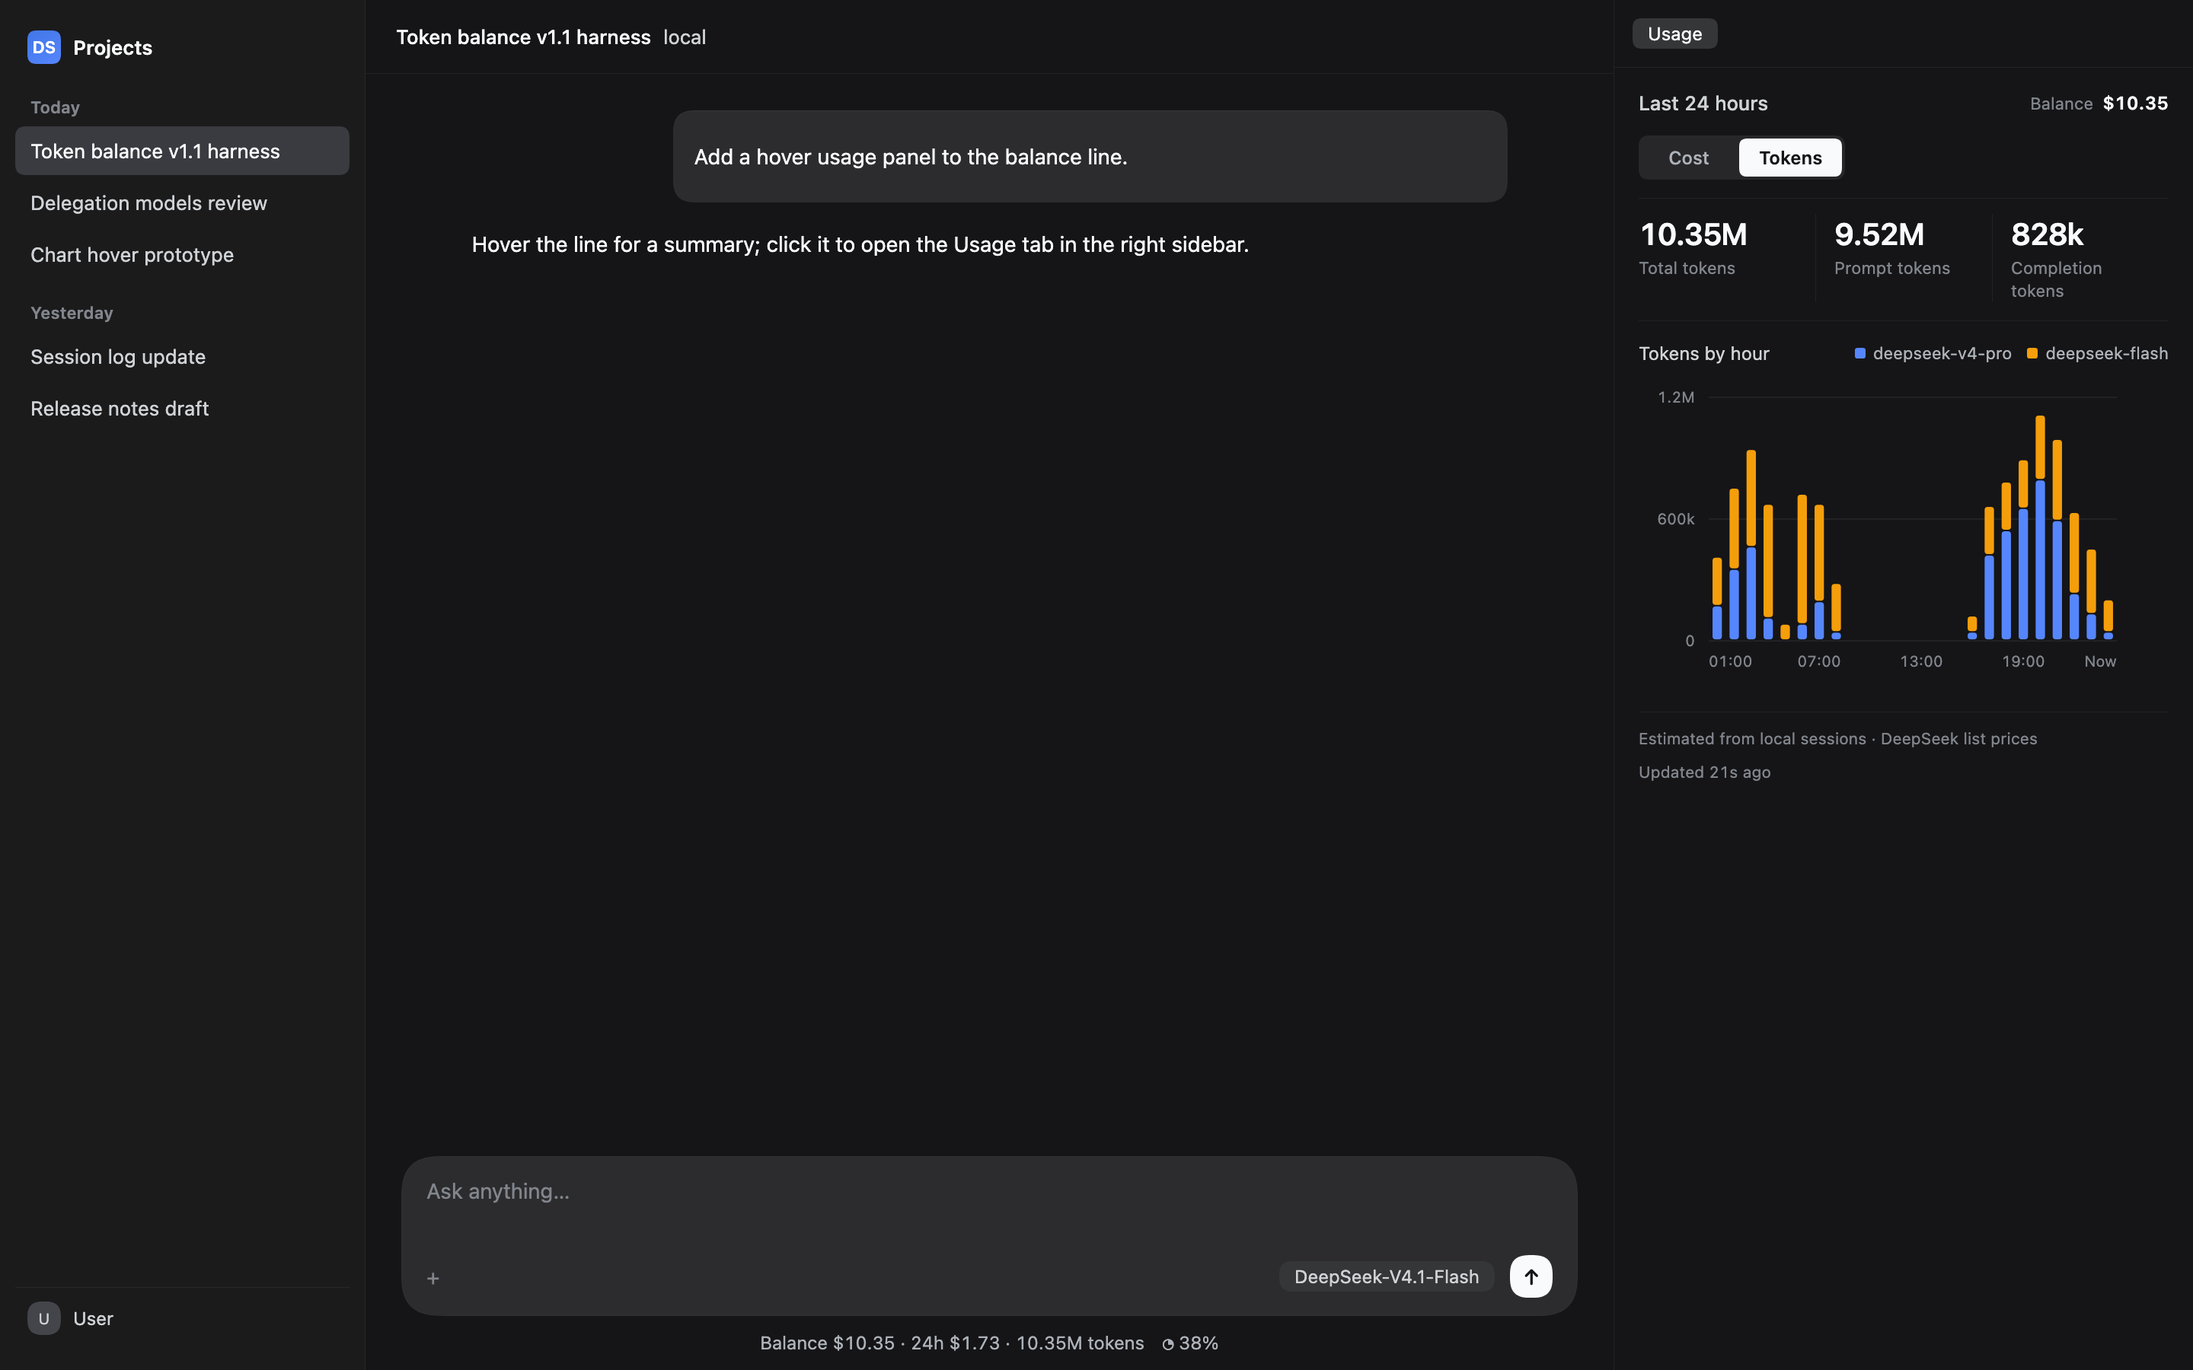
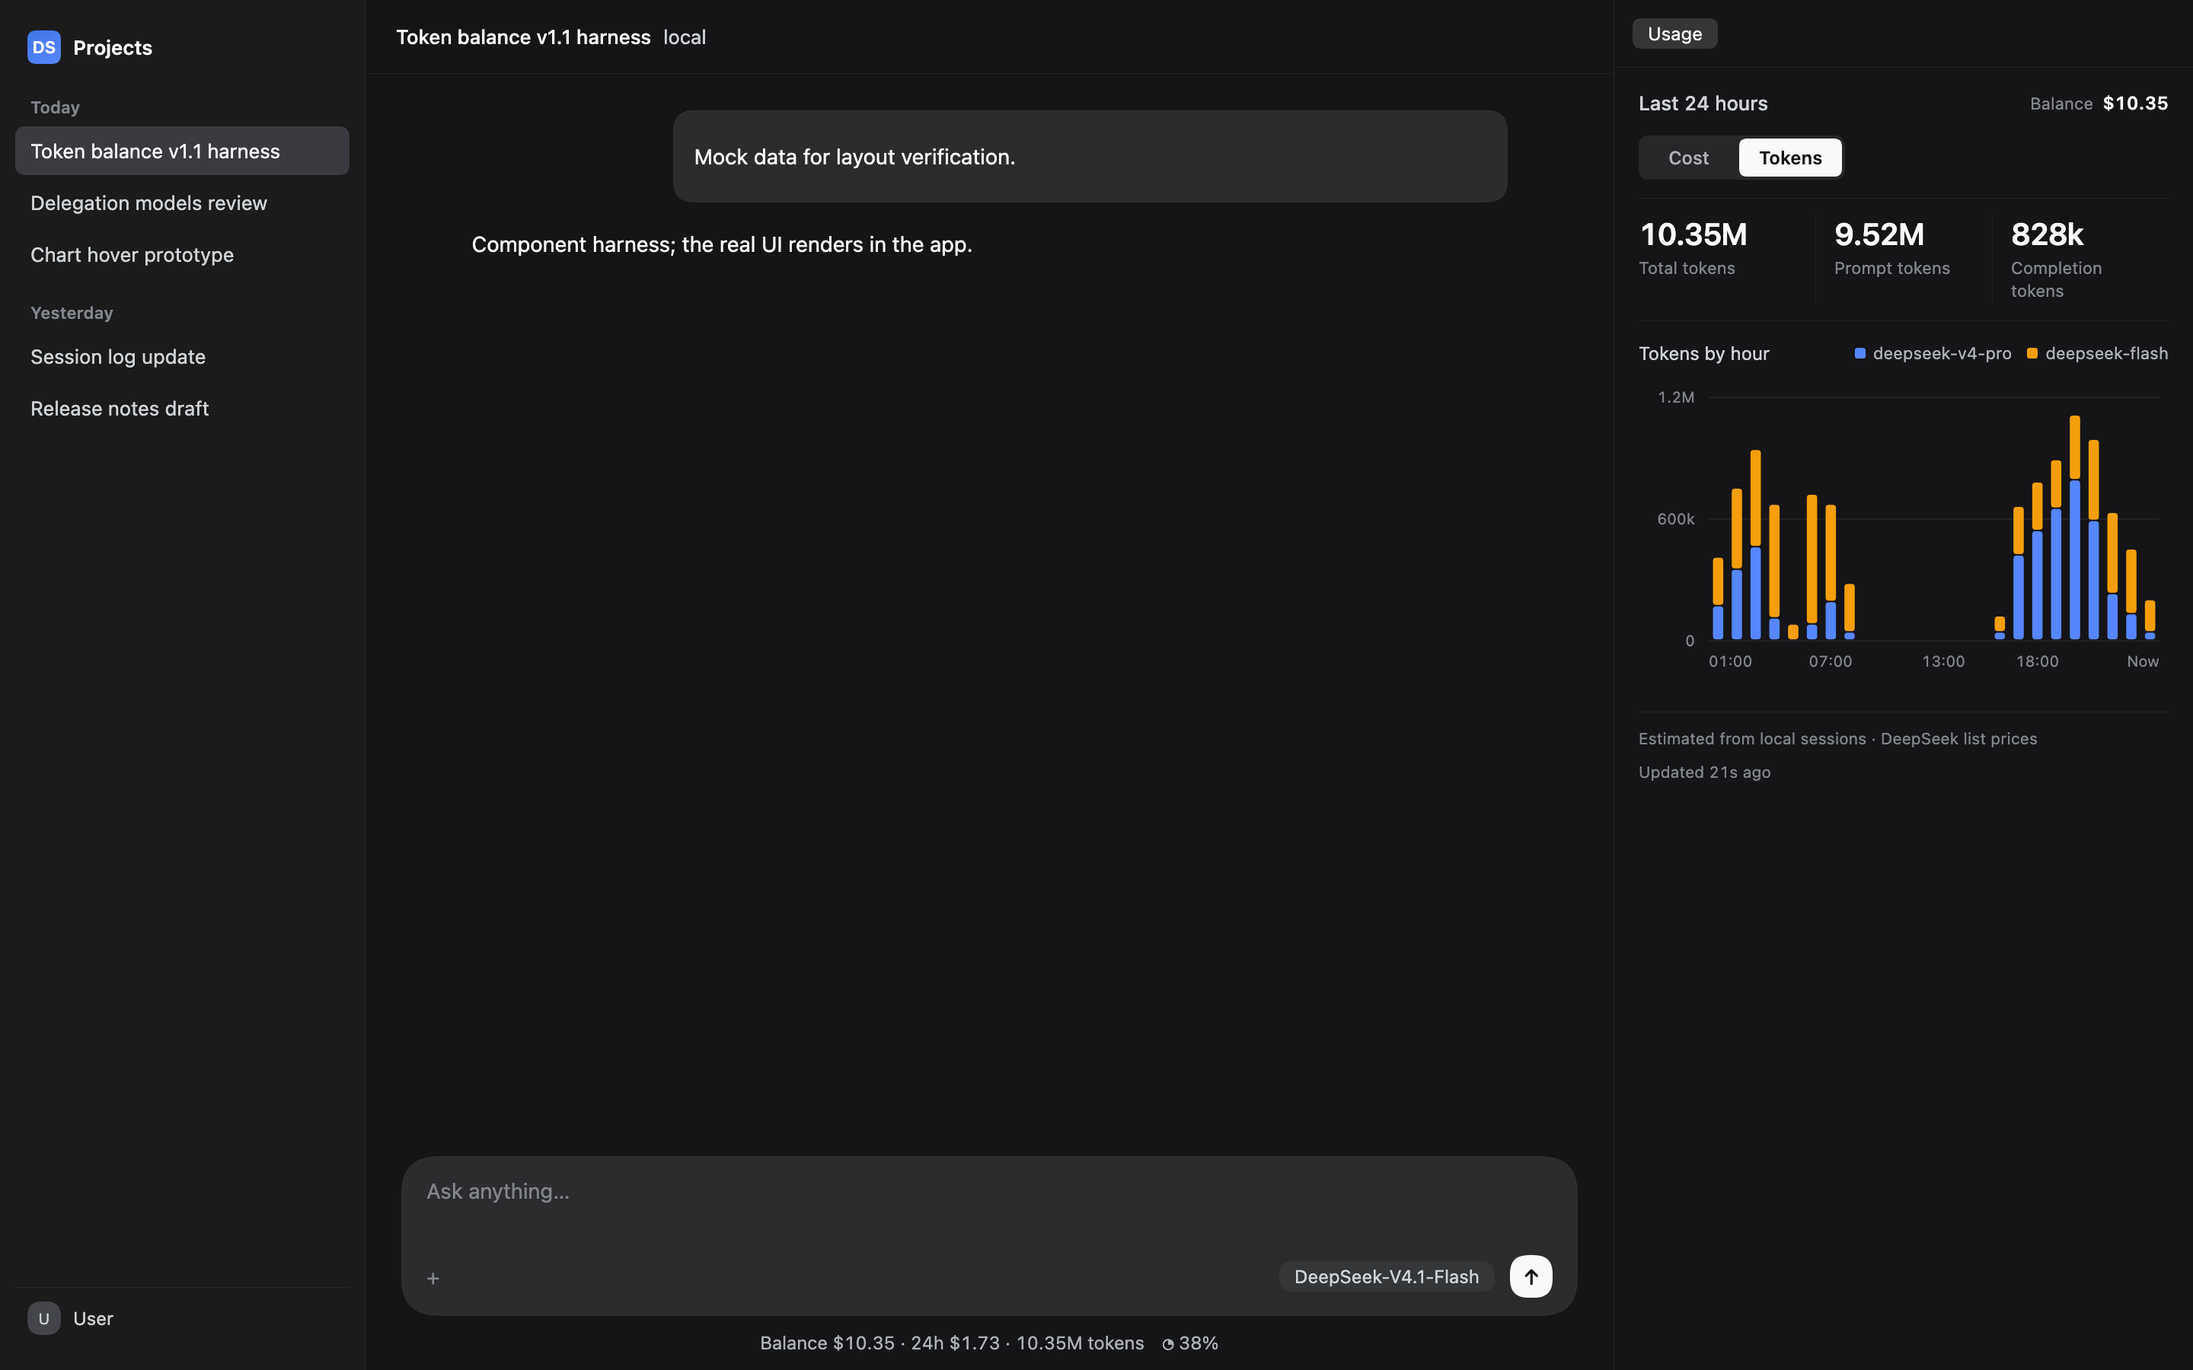
fix(token-balance): address the v1.1 review findings
Review fixes: cache a live session's log length only when it did not move during the read; isolate balance and report failures so the balance survives a usage failure and the panel shows retry; declare the right-sidebar services in the client inject list for dynamic loading; guard ResizeObserver; derive chart tick positions; clamp the preview to the viewport; add panel keys; restore CHANGELOG in package files; date the release; replace chat text in the harness screenshots with placeholder copy.

diff --git a/plugins/dsh-token-balance/client.js b/plugins/dsh-token-balance/client.js
@@ -16,7 +16,7 @@ window.__ModuleLoader__.load({
       'dock.tokens': 'tokens',
       'dock.loading': '…',
       'dock.unavailable': 'Usage unavailable',
-      'dock.noKey': 'No DeepSeek API key',
+      'dock.noKey': 'Sign in or set an API key',
       'dock.balanceError': 'Balance unavailable',
       'dock.balanceUnavailable': '—',
       'dock.noUsage': 'No usage in 24h',
@@ -61,7 +61,7 @@ window.__ModuleLoader__.load({
       'dock.tokens': 'Token',
       'dock.loading': '…',
       'dock.unavailable': '用量不可用',
-      'dock.noKey': '未配置 DeepSeek API Key',
+      'dock.noKey': '请登录或配置 API Key',
       'dock.balanceError': '余额不可用',
       'dock.balanceUnavailable': '—',
       'dock.noUsage': '24 小时内无用量',
@@ -164,7 +164,7 @@ window.__ModuleLoader__.load({
     }
     function formatInt(value) {
       const n = Number(value)
-      return Number.isFinite(n) ? Math.round(n).toLocaleString('en-US') : '—'
+      return Number.isFinite(n) ? Math.round(n).toLocaleString() : '—'
     }
     function clockOf(ms) {
       const date = new Date(ms)
@@ -299,7 +299,7 @@ window.__ModuleLoader__.load({
       preview: {
         position: 'fixed',
         transform: 'translateX(-50%)',
-        width: '300px',
+        width: 'min(300px, calc(100vw - 16px))',
         boxSizing: 'border-box',
         padding: '12px',
         borderRadius: C.radiusLg,
@@ -418,7 +418,7 @@ window.__ModuleLoader__.load({
 
     function HoverPreview({ t, state, onOpen, onClose, anchor }) {
       const data = state.data
-      const win = data === null ? undefined : data.window
+      const win = data === null || data.window == null ? undefined : data.window
       const buckets = win === undefined ? [] : win.buckets
       const models = win === undefined ? [] : win.models
       const maxCost = buckets.reduce((max, bucket) => Math.max(max, bucketValue(bucket, models, 'cost')), 0)
@@ -450,7 +450,9 @@ window.__ModuleLoader__.load({
         ),
         data === null
           ? h('div', { style: S.previewEmpty }, state.status === 'error' ? t('dock.unavailable') : t('dock.loading'))
-          : empty
+          : win === undefined
+            ? h('div', { style: S.previewEmpty }, t('dock.unavailable'))
+            : empty
             ? h('div', { style: S.previewEmpty }, t('preview.empty'))
             : h(
                 React.Fragment,
@@ -486,9 +488,11 @@ window.__ModuleLoader__.load({
       const balance = balanceTextOf(data.balance, t)
       if (balance !== undefined && balance !== '') parts.push(t('dock.balance') + ' ' + balance)
       const win = data.window
-      if (win !== undefined && win.totals.requests > 0) {
+      if (win != null && win.totals.requests > 0) {
         parts.push(t('dock.window') + ' ' + formatCost(win.totals.cost, data.rates.currency))
         parts.push(formatTokens(win.totals.totalTokens) + ' ' + t('dock.tokens'))
+      } else if (win == null) {
+        parts.push(t('dock.unavailable'))
       } else {
         parts.push(t('dock.noUsage'))
       }
@@ -511,7 +515,7 @@ window.__ModuleLoader__.load({
         const button = buttonRef.current
         if (button === null) return
         const rect = button.getBoundingClientRect()
-        const half = 154
+        const half = Math.min(154, Math.max(0, window.innerWidth / 2 - 8))
         const center = Math.max(half, Math.min(window.innerWidth - half, rect.left + rect.width / 2))
         setAnchor({ left: center, bottom: window.innerHeight - rect.top + 8 })
       }
@@ -688,7 +692,10 @@ window.__ModuleLoader__.load({
         })
       })
 
-      const xIndexes = [0, 6, 12, 18, buckets.length - 1]
+      const lastIndex = buckets.length - 1
+      const xIndexes = [0, Math.round(lastIndex * 0.25), Math.round(lastIndex * 0.5), Math.round(lastIndex * 0.75), lastIndex].filter(
+        (value, index, array) => array.indexOf(value) === index,
+      )
       xIndexes.forEach((index, position) => {
         if (index < 0 || index >= buckets.length) return
         const first = position === 0
@@ -787,7 +794,7 @@ window.__ModuleLoader__.load({
       }, [])
       React.useEffect(() => {
         const element = chartRef.current
-        if (element === null) return undefined
+        if (element === null || typeof ResizeObserver !== 'function') return undefined
         const observer = new ResizeObserver((entries) => {
           const measured = entries[0] === undefined ? 0 : entries[0].contentRect.width
           if (measured > 0) setWidth(Math.max(220, Math.round(measured)))
@@ -796,8 +803,8 @@ window.__ModuleLoader__.load({
         return () => observer.disconnect()
       }, [state.data])
       const data = state.data
-      const win = data === null ? undefined : data.window
-      const currency = data === null ? 'USD' : data.rates.currency
+      const win = data === null || data.window == null ? undefined : data.window
+      const currency = data === null || data.rates == null ? 'USD' : data.rates.currency
       const models = win === undefined ? [] : win.models
       const totals = win === undefined ? null : win.totals
       const empty = win === undefined || win.totals.requests === 0
@@ -823,7 +830,7 @@ window.__ModuleLoader__.load({
       content.push(
         h(
           'div',
-          { style: S.panelHead },
+          { key: 'head', style: S.panelHead },
           h('div', { style: S.panelRange }, t('panel.range')),
           h(
             'div',
@@ -832,20 +839,35 @@ window.__ModuleLoader__.load({
             h('b', { style: S.balanceValue }, balanceText === undefined ? '—' : balanceText),
           ),
         ),
-        h(Tabs, { t, tab, onChange: setTab }),
+        h(Tabs, { key: 'tabs', t, tab, onChange: setTab }),
       )
 
       if (data === null) {
-        content.push(h('div', { style: S.loading }, state.status === 'error' ? t('panel.error') : t('panel.loading')))
+        content.push(h('div', { key: 'loading', style: S.loading }, state.status === 'error' ? t('panel.error') : t('panel.loading')))
         if (state.status === 'error') {
-          content.push(h('div', { style: S.emptyBox }, h('button', { type: 'button', style: S.retry, onClick: () => store.refresh() }, t('panel.retry'))))
+          content.push(
+            h(
+              'div',
+              { key: 'retry', style: S.emptyBox },
+              h('button', { type: 'button', style: S.retry, onClick: () => store.refresh() }, t('panel.retry')),
+            ),
+          )
         }
+      } else if (data.window == null) {
+        content.push(
+          h(
+            'div',
+            { key: 'error', style: S.emptyBox },
+            h('span', null, t('panel.error')),
+            h('button', { type: 'button', style: S.retry, onClick: () => store.refresh() }, t('panel.retry')),
+          ),
+        )
       } else {
         if (statsList.length > 0) {
           content.push(
             h(
               'div',
-              { style: S.stats },
+              { key: 'stats', style: S.stats },
               statsList.map((entry, index) =>
                 h(
                   'div',
@@ -860,7 +882,7 @@ window.__ModuleLoader__.load({
         content.push(
           h(
             'div',
-            { style: S.chartHead },
+            { key: 'chart-head', style: S.chartHead },
             h('span', { style: S.chartTitle }, chartTitle),
             h(
               'div',
@@ -879,7 +901,7 @@ window.__ModuleLoader__.load({
         content.push(
           h(
             'div',
-            { ref: chartRef, style: { width: '100%' } },
+            { key: 'chart', ref: chartRef, style: { width: '100%' } },
             empty
               ? h('div', { style: S.emptyBox }, t('panel.empty'))
               : h(Chart, {
@@ -898,7 +920,7 @@ window.__ModuleLoader__.load({
         content.push(
           h(
             'div',
-            { style: S.foot },
+            { key: 'foot', style: S.foot },
             h('span', null, t('panel.foot')),
             h('span', null, t('panel.updated', { when: timeAgo(data.updatedAt, t) })),
           ),
@@ -909,7 +931,7 @@ window.__ModuleLoader__.load({
     }
 
     return {
-      inject: ['slots', 'locale'],
+      inject: ['slots', 'locale', 'sidebarRightTabs', 'sidebarRight'],
       apply(ctx) {
         let t = (key) => key
         try {
@@ -930,34 +952,32 @@ window.__ModuleLoader__.load({
           ),
         )
 
-        ctx.inject(['sidebarRightTabs', 'sidebarRight'], (sub) => {
-          sub.effect(
-            () =>
-              sub.sidebarRightTabs.register({
-                id: TYPE_ID,
-                kind: KIND,
-                title: () => t('panel.title'),
-              }),
-            'token-balance: usage tab type',
-          )
-          sub.effect(
-            () =>
-              ctx.slots.inject('sidebar.right.pane.tab', () =>
-                ctx.slots.register(
-                  { name: 'sidebar.right.pane.tab', key: TYPE_ID, locale: NS },
-                  (props) => h(UsagePanel, { ...props, t: props.t !== undefined ? props.t : t, store }),
-                ),
+        ctx.effect(
+          () =>
+            ctx.sidebarRightTabs.register({
+              id: TYPE_ID,
+              kind: KIND,
+              title: () => t('panel.title'),
+            }),
+          'token-balance: usage tab type',
+        )
+        ctx.effect(
+          () =>
+            ctx.slots.inject('sidebar.right.pane.tab', () =>
+              ctx.slots.register(
+                { name: 'sidebar.right.pane.tab', key: TYPE_ID, locale: NS },
+                (props) => h(UsagePanel, { ...props, t: props.t !== undefined ? props.t : t, store }),
               ),
-            'token-balance: usage tab body',
-          )
-          actions.open = () => {
-            try {
-              sub.sidebarRight.openTab(KIND)
-            } catch {
-              // No Session is mounted; the dock only exists with one, so this is a transient state.
-            }
+            ),
+          'token-balance: usage tab body',
+        )
+        actions.open = () => {
+          try {
+            ctx.sidebarRight.openTab(KIND)
+          } catch {
+            // No Session is mounted; the dock only exists with one, so this is a transient state.
           }
-        })
+        }
       },
     }
   },

diff --git a/plugins/dsh-token-balance/index.js b/plugins/dsh-token-balance/index.js
@@ -186,6 +186,7 @@ export function apply(ctx, config = {}) {
         if (cached.complete === false && seq !== undefined && cached.seq === seq) return cached.usage
       }
     }
+    const seqBefore = liveSeqOf(liveSession(ctx, candidate.id) ?? candidate.session)
     let events
     if (query !== undefined && typeof query.readSession === 'function') {
       const result = await query.readSession(candidate.id)
@@ -195,8 +196,11 @@ export function apply(ctx, config = {}) {
       events = typeof session?.snapshotEvents === 'function' ? session.snapshotEvents() : []
     }
     const usage = usageRecords(events, { from: windowStart })
-    const seq = liveSeqOf(liveSession(ctx, candidate.id) ?? candidate.session)
-    cache.sessions.set(candidate.id, { seq, complete: !candidate.live, usage })
+    const seqAfter = liveSeqOf(liveSession(ctx, candidate.id) ?? candidate.session)
+    // Cache the log length only when it did not move during the read; otherwise
+    // the next poll re-reads rather than trusting a snapshot with a missing tail.
+    const stableSeq = seqBefore !== undefined && seqBefore === seqAfter ? seqAfter : undefined
+    cache.sessions.set(candidate.id, { seq: stableSeq, complete: !candidate.live, usage })
     return usage
   }
 
@@ -307,12 +311,25 @@ export function apply(ctx, config = {}) {
         kind: 'exact',
         path: '/dsh-token-balance',
         handler: async (req, res) => {
-          try {
-            const [balance, report] = await Promise.all([readBalance(), readReport()])
-            writeJson(res, 200, { balance: balance ?? null, ...report })
-          } catch (error) {
-            writeJson(res, 500, { error: error instanceof Error ? error.message : String(error) })
+          const [balanceResult, reportResult] = await Promise.allSettled([readBalance(), readReport()])
+          const errorOf = (result) => (result.reason instanceof Error ? result.reason.message : String(result.reason))
+          if (balanceResult.status === 'rejected' && reportResult.status === 'rejected') {
+            writeJson(res, 500, { error: errorOf(reportResult) })
+            return
           }
+          const body = {
+            balance: balanceResult.status === 'fulfilled' ? balanceResult.value ?? null : null,
+            updatedAt: Date.now(),
+          }
+          if (reportResult.status === 'fulfilled') {
+            Object.assign(body, reportResult.value)
+          } else {
+            body.window = null
+            body.rates = null
+            body.meta = { sessionSource: 'unavailable', sessions: 0 }
+            body.error = errorOf(reportResult)
+          }
+          writeJson(res, 200, body)
         },
       }),
     'token-balance: route',

diff --git a/plugins/dsh-token-balance/CHANGELOG.md b/plugins/dsh-token-balance/CHANGELOG.md
@@ -1,6 +1,6 @@
 # Changelog — @mazz/dsh-token-balance
 
-## [1.1.0] - 2026-11-07
+## [1.1.0] - 2026-11-08
 
 ### Added
 - Hover summary above the composer dock: estimated cost and token sparklines for
@@ -23,13 +23,26 @@
 - The client half injects `@deepseek-ai/dsh-client-ui-sidebar-right` and the package
   version is now 1.1.0.
 
+### Fixed
+- A live session whose log grows during a report read is re-read on the next poll
+  instead of caching a snapshot with a missing tail.
+- The route keeps returning the balance when the usage report fails, and the panel
+  shows a retry action instead of a blank column.
+- The sidebar services are declared in the client plugin's inject list, so a
+  dynamically loaded plugin can open the Usage tab as well as the static boot path.
+- Guards for a missing ResizeObserver, locale-aware integer grouping, derived chart
+  tick positions, React keys in the panel, and a preview width clamped to the
+  viewport.
+- The committed harness screenshots use placeholder copy instead of chat text.
+
 ### Known limits
-- Sessions are scanned when they are live or were created inside the 24-hour window;
-  a session archived before the window is not read.
+- Persisted sessions are pre-filtered by `header.createdAt` inside the 24-hour
+  window; a session created before the window and archived without being live while
+  the plugin ran is not read.
 - Chinese public holidays are not modelled for peak pricing, so peak-hour estimates
   on those days can be high.
-- Sparkline and panel rendering are verified in the mockup harness; the live slot
-  rendering needs a page refresh in the running profile.
+- The component harness verifies layout and interaction; the live slot rendering
+  needs a page refresh in the running profile.
 
 ## [1.0.0] - 2026-11-07
 

diff --git a/CHANGELOG.md b/CHANGELOG.md
@@ -15,6 +15,8 @@ releases and repository-level changes.
   bundled snapshot and custom rate-card template, and separate Team/Subagent usage.
 - Repository rule requiring a changelog for every plugin (`AGENTS.md`).
 
+## 2026-11-08 — repository 0.2.1
+
 ### Changed
 - `@mazz/dsh-token-balance` 1.1.0: a 24-hour usage report from session history, a
   right-Sidebar Cost/Tokens panel, a hover sparkline summary and an editable
